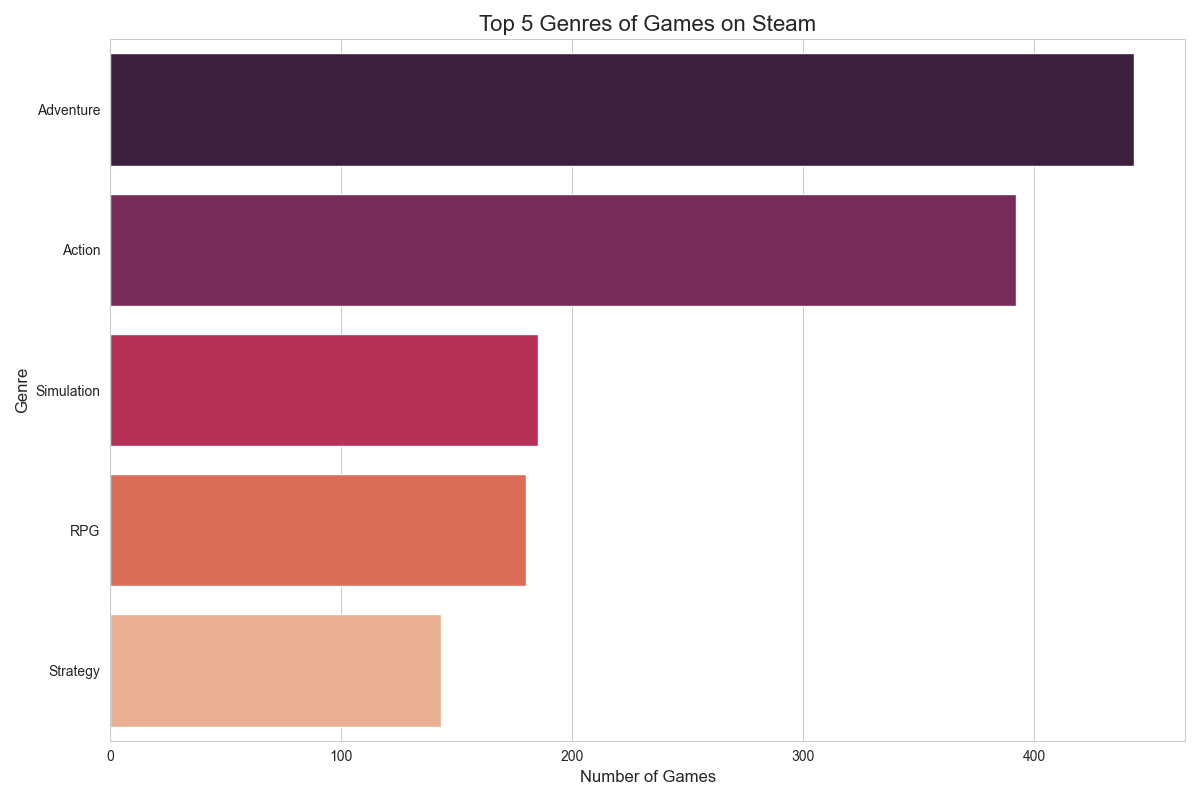
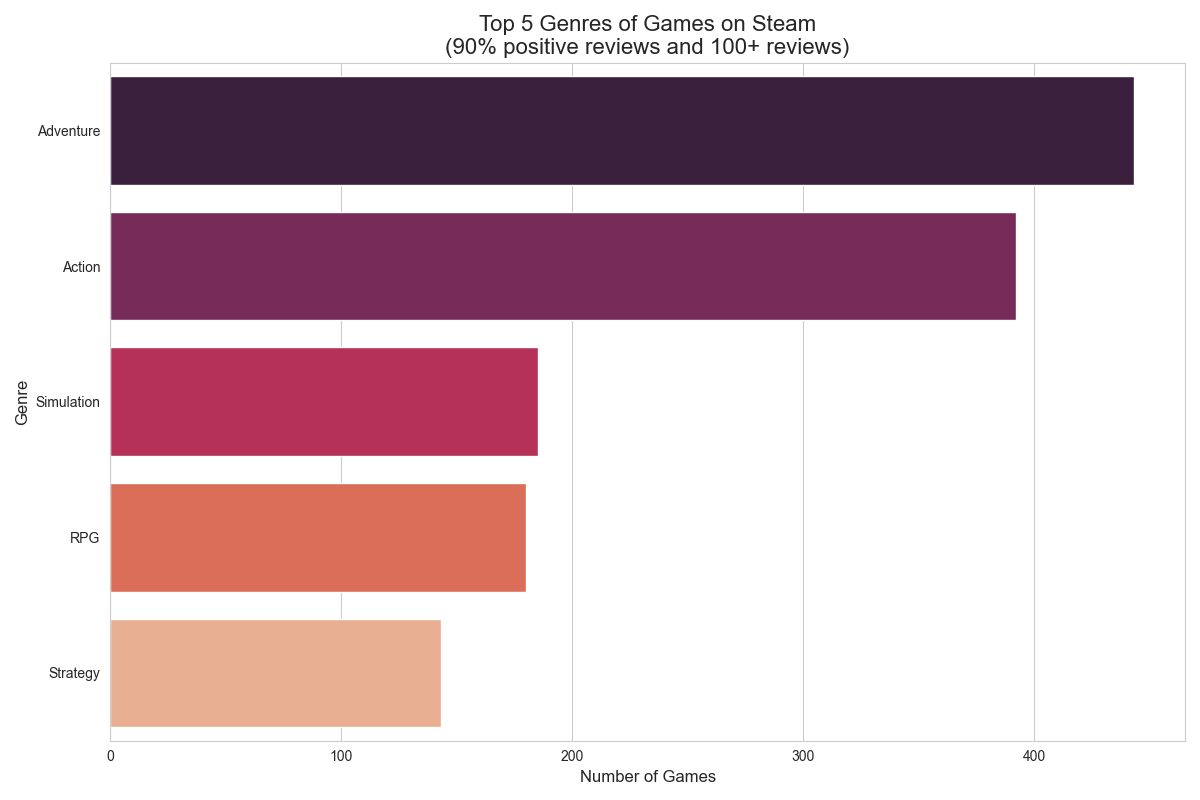
Updating readme for completion

diff --git a/analysis.py b/analysis.py
@@ -153,7 +153,7 @@ print(top_10_genres.to_string())
 # Let's visualize the data!
 plt.figure()
 sns.barplot(x=top_10_genres.values, y=top_10_genres.index, palette='rocket')
-plt.title('Top 5 Genres of Games on Steam', fontsize=16)
+plt.title('Top 5 Genres of Games on Steam\n(90% positive reviews and 100+ reviews)', fontsize=16)
 plt.xlabel('Number of Games', fontsize=12)
 plt.ylabel('Genre', fontsize=12)
 plt.tight_layout()
@@ -191,7 +191,7 @@ sns.regplot(
     data=steam_file_for_corr,
     x='Price_Numeric',
     y='Review_Score',
-    scatter_kws={'alpha': 0.1, 's': 15}, # Smaller, transparent points for the sake of density
+    scatter_kws={'alpha': 0.1, 's': 15}, # Smaller, transparent points because of density
     line_kws={'color': 'red', 'linewidth': 2}
 )
 plt.title('Game Price vs. User Review Score\n(Games priced $5 to \$80)', fontsize=16)
@@ -205,7 +205,7 @@ print("Generated chart: 'q2_price_vs_review.png'")
 
 # QUESTION 3 - Note, this is DEVELOPERS not PUBLISHERS. Developers actually make the games.
 print()
-print("QUESTION 3: Which developers have the best track record for releasing top rated games?")
+print("QUESTION 3: What are the top 15 developers which have the best track record for releasing top rated games?")
 print('Developers analyzed based on the following criteria:')
 print('   At least 3 published games')
 print('   Average review score of all games with 100 or more reviews')

diff --git a/Readme.md b/Readme.md
@@ -28,6 +28,115 @@ Games analyzed based on the following criteria:
     RPG           180
     Strategy      143
 
+ ![Top 5 Genres Chart](q1_top_genres.png)
+
+ **QUESTION 2:** Is there a correlation between game price and the review score?"
+
+ The [Pearson Correlation Coefficient](https://www.statology.org/pearson-correlation-coefficient/) score between Price and Review Score is: **0.0127**
+
+ The correlation coefficient score of 0.0127 is extremely close to zero, indicating no meaningful linear relationship between Price and Review Score. The variables appear to be independent.
+
+ ![Top 5 Genres Chart](q2_price_vs_review.png)
+
+ **QUESTION 3:** What are the top 15 developers which have the best track record for releasing top rated games?
+
+Developers analyzed based on the following criteria:
+* Developer has at least 3 published games.
+* 100 Total Reviews
+
+*Result*
+
+    Quiet River (Avg Score: 94.86%)
+    Top Games:
+        1. Zup! S
+        2. qop 4
+        3. Zup! 9
+
+    Zachtronics (Avg Score: 94.81%)
+    Top Games:
+        1. TIS-100
+        2. SHENZHEN I/O
+        3. NERTS! Online
+
+    Kairosoft Co.,Ltd (Avg Score: 89.59%)
+    Top Games:
+        1. Mega Mall Story
+        2. Convenience Stories
+        3. Forest Camp Story
+
+    Choice of Games (Avg Score: 88.83%)
+    Top Games:
+        1. Vampire: The Masquerade — Parliament of Knives
+        2. Vampire: The Masquerade — Night Road
+        3. Choice of Rebels: Uprising
+
+    Spiderweb Software (Avg Score: 85.62%)
+    Top Games:
+        1. Avernum: Escape From the Pit
+        2. Avadon 3: The Warborn
+        3. Avernum 4
+
+    Square Enix (Avg Score: 85.38%)
+    Top Games:
+        1. FINAL FANTASY VII
+        2. KINGDOM HEARTS III + Re Mind (DLC)
+        3. FINAL FANTASY IV
+
+    Obsidian Entertainment (Avg Score: 84.57%)
+    Top Games:
+        1. South Park™: The Stick of Truth™
+        2. Fallout: New Vegas
+        3. Pillars of Eternity
+
+    WayForward (Avg Score: 83.46%)
+    Top Games:
+        1. Shantae and the Pirate's Curse
+        2. Mighty Switch Force! Hyper Drive Edition
+        3. Contra: Operation Galuga
+
+    Firaxis Games (Avg Score: 82.37%)
+    Top Games:
+        1. Civilization IV: Beyond the Sword
+        2. Sid Meier's Civilization® IV
+        3. Civilization IV®: Warlords
+
+    capcom (Avg Score: 81.84%)
+    Top Games:
+        1. Resident Evil 4 (2005)
+        2. Dragon's Dogma: Dark Arisen
+        3. DEAD RISING®
+
+    HeR Interactive (Avg Score: 81.40%)
+    Top Games:
+        1. Nancy Drew®: Secret of the Old Clock
+        2. Nancy Drew®: Secret of the Scarlet Hand
+        3. Nancy Drew®: The Captive Curse
+
+    Chilla's Art (Avg Score: 80.79%)
+    Top Games:
+        1. [Chilla's Art] The Closing Shift | 閉店事件
+        2. [Chilla's Art] The Caregiver | 終焉介護
+        3. [Chilla's Art] Stigmatized Property | 事故物件
+
+    Ubisoft Montreal (Avg Score: 80.41%)
+    Top Games:
+        1. Tom Clancy's Rainbow Six® Vegas 2
+        2. Tom Clancy's Rainbow Six® Siege
+        3. Tom Clancy's Rainbow Six® Siege
+
+    Arc System Works (Avg Score: 79.98%)
+    Top Games:
+        1. GUILTY GEAR Xrd -SIGN-
+        2. Guilty Gear X2 #Reload
+        3. BlazBlue: Cross Tag Battle
+    Milestone S.r.l. (Avg Score: 78.27%)
+    Top Games:
+        1. MotoGP™19
+        2. Monster Energy Supercross - The Official Videogame
+        3. MXGP 2021 - The Official Motocross Videogame
+
+ ![Top 15 Developers Chart](q3_top_developers.png)
+
 # Development Environment
 
 {Describe the tools that you used to develop the software}
